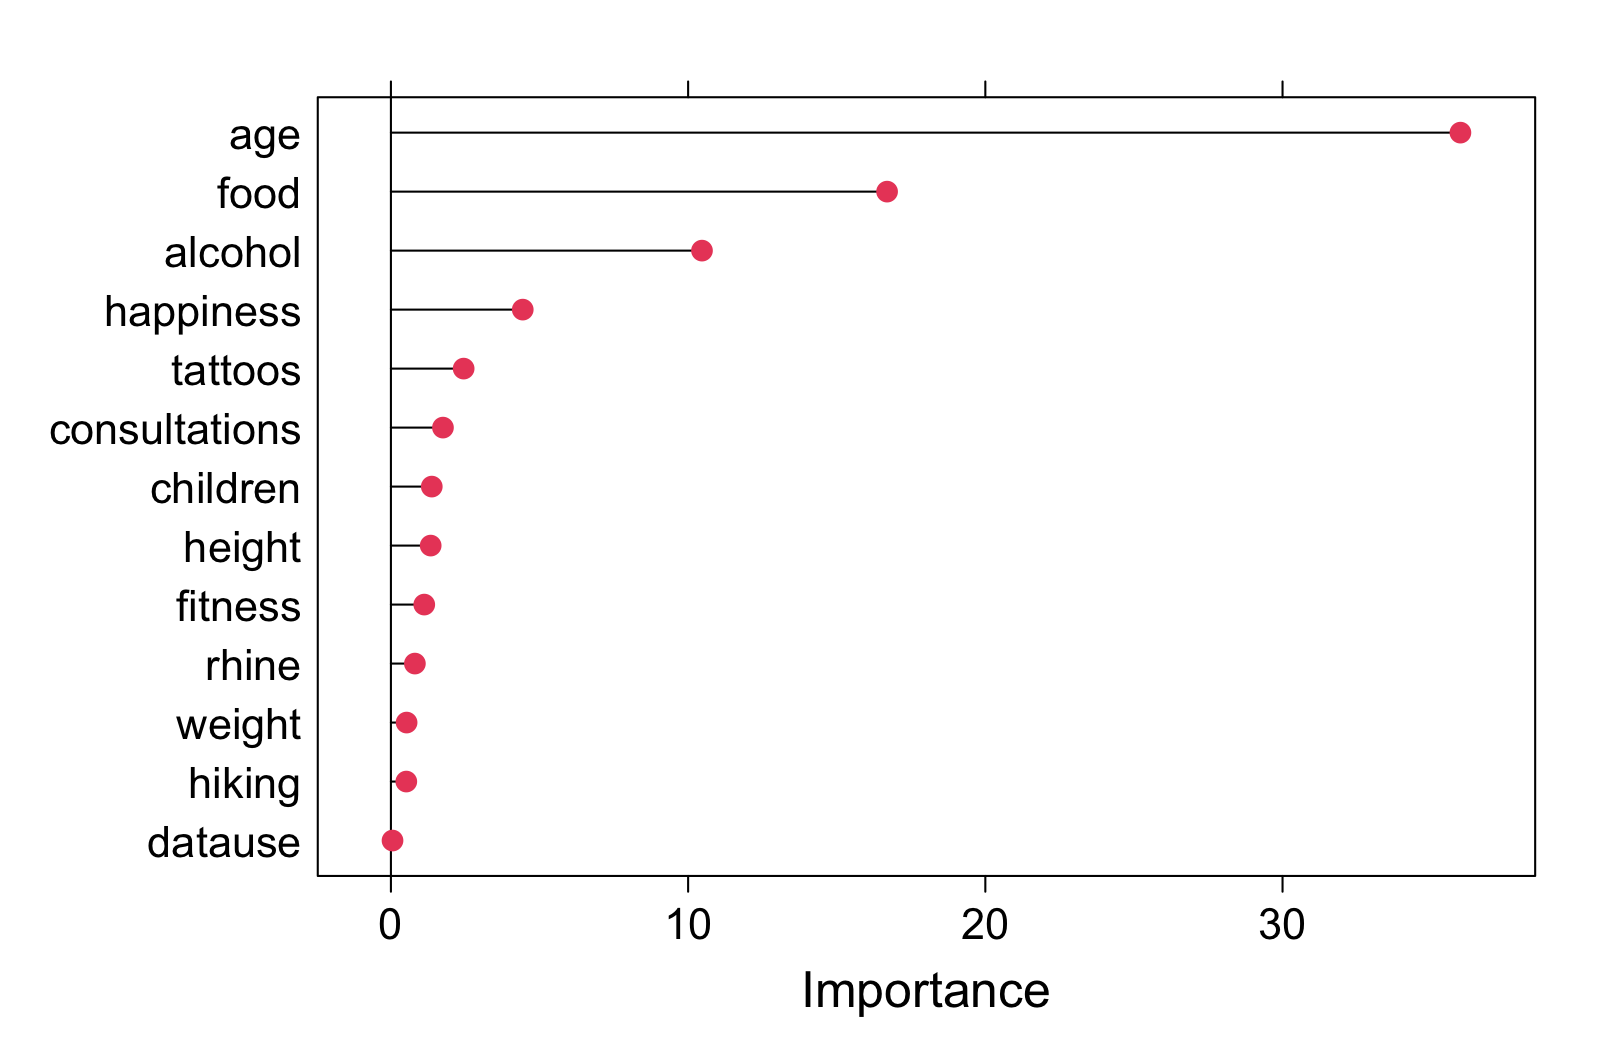
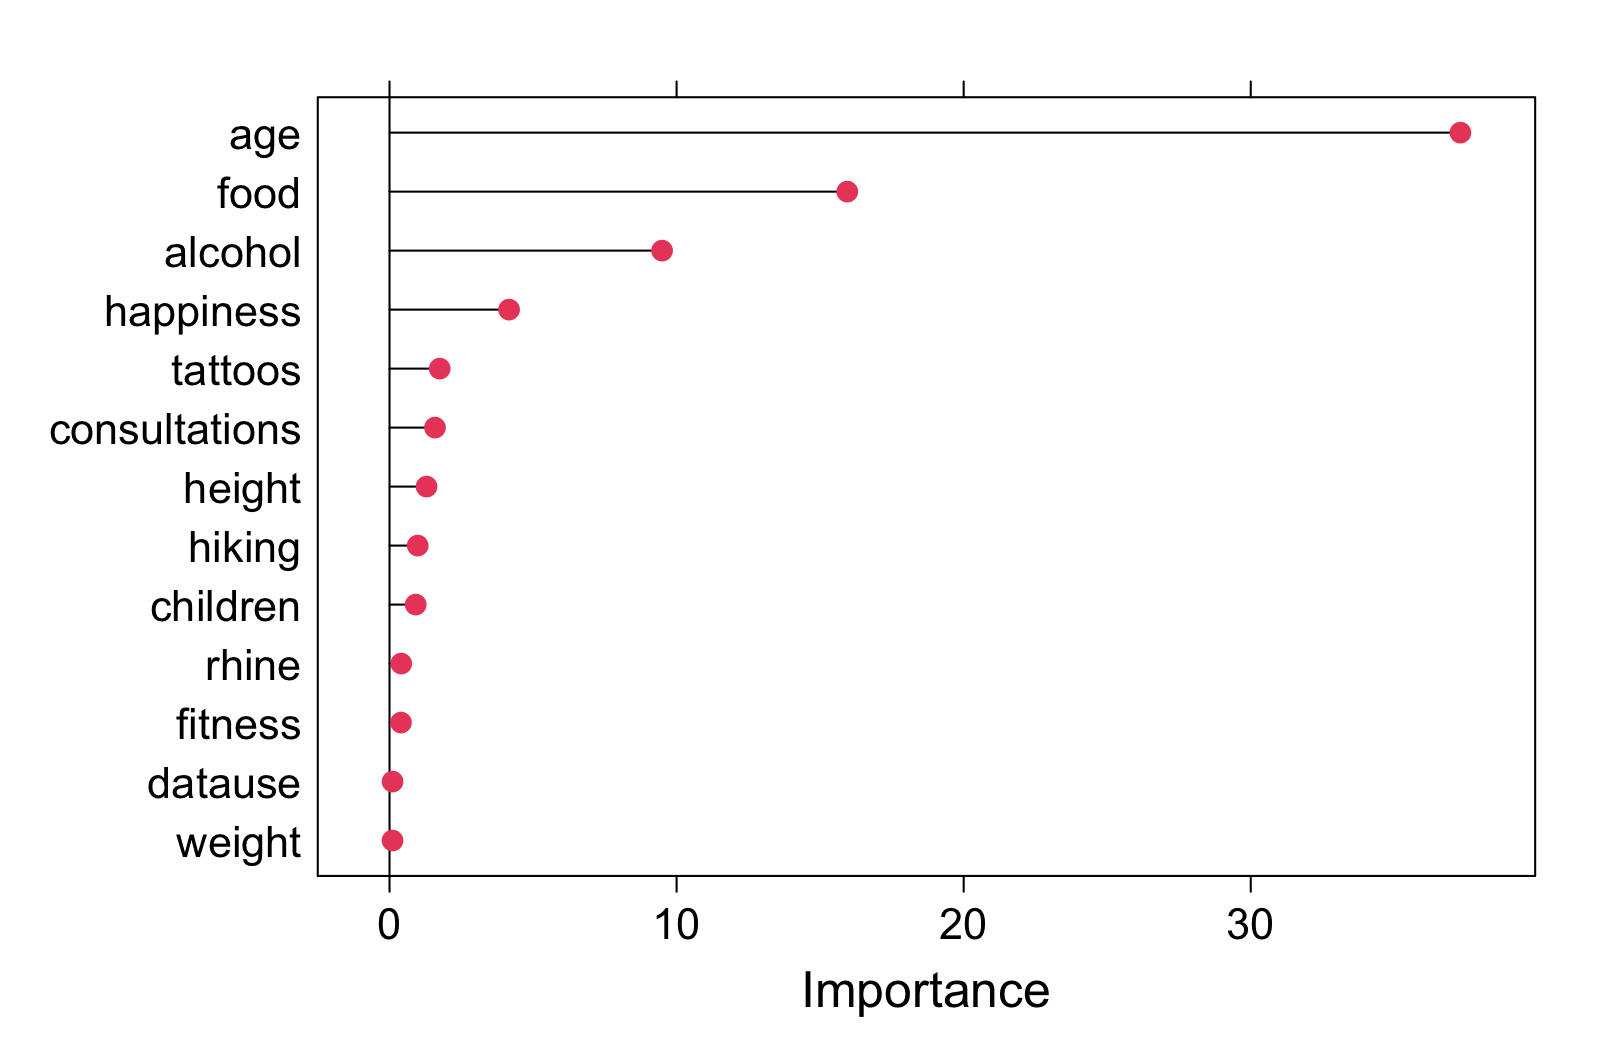
minor, feature slides

diff --git a/_sessions/Features/Features.html b/_sessions/Features/Features.html
@@ -102,11 +102,11 @@ As the number of features grows...
 
 &lt;u&gt;3 ways&lt;/u&gt;
 
-&lt;i&gt;A&lt;/i&gt; Reduce variables &lt;high&gt;manually&lt;/high&gt; based on statistical or intuitive considerations.
+&lt;i&gt;A)&lt;/i&gt; Reduce variables &lt;high&gt;manually&lt;/high&gt; based on statistical or intuitive considerations.
 
-&lt;i&gt;B&lt;/i&gt; Reduce variables &lt;high&gt;automatically&lt;/high&gt; using the right ML algorithms, e.g., `random forests` or `lasso regression`, or feature selection algorithms, e.g., `recursive feature selection`.
+&lt;i&gt;B)&lt;/i&gt; Reduce variables &lt;high&gt;automatically&lt;/high&gt; using the right ML algorithms, e.g., `random forests` or `lasso regression`, or feature selection algorithms, e.g., `recursive feature selection`.
 
-&lt;i&gt;C&lt;/i&gt; Compress variables using &lt;high&gt;dimensionality reduction algorithms&lt;/high&gt;, such `principal component analysis`(PCA).
+&lt;i&gt;C)&lt;/i&gt; Compress variables using &lt;high&gt;dimensionality reduction algorithms&lt;/high&gt;, such `principal component analysis` (PCA).
 
 ]
 
@@ -166,16 +166,16 @@ varImp(income_lm)
 lm variable importance
 
           Overall
-age        100.00
-food        46.19
-alcohol     28.57
-happiness   12.24
-tattoos      6.68
-children     3.56
-fitness      2.90
-height       2.85
-weight       1.90
-datause      0.00
+age       100.000
+food       42.324
+alcohol    24.698
+happiness  10.714
+tattoos     4.219
+height      2.452
+children    2.020
+fitness     0.619
+weight      0.208
+datause     0.000
 ```
 
 ]
@@ -226,11 +226,11 @@ Outer resampling method: Bootstrapped (25 reps)
 Resampling performance over subset size:
 
  Variables  RMSE Rsquared   MAE RMSESD RsquaredSD  MAESD Selected
-         3 0.368    0.865 0.291 0.0124     0.0153 0.0105         
-         4 0.366    0.867 0.289 0.0130     0.0153 0.0111        *
-         5 0.367    0.866 0.289 0.0128     0.0148 0.0114         
-        10 0.370    0.864 0.291 0.0116     0.0139 0.0104         
-        14 0.370    0.864 0.291 0.0114     0.0139 0.0104         
+         3 0.369    0.870 0.291 0.0114     0.0118 0.0107         
+         4 0.366    0.872 0.288 0.0123     0.0121 0.0114        *
+         5 0.368    0.871 0.289 0.0115     0.0121 0.0104         
+        10 0.370    0.869 0.291 0.0120     0.0124 0.0108         
+        14 0.370    0.869 0.291 0.0121     0.0125 0.0109         
 
 The top 4 variables (out of 4):
    age, food, alcohol, happiness
